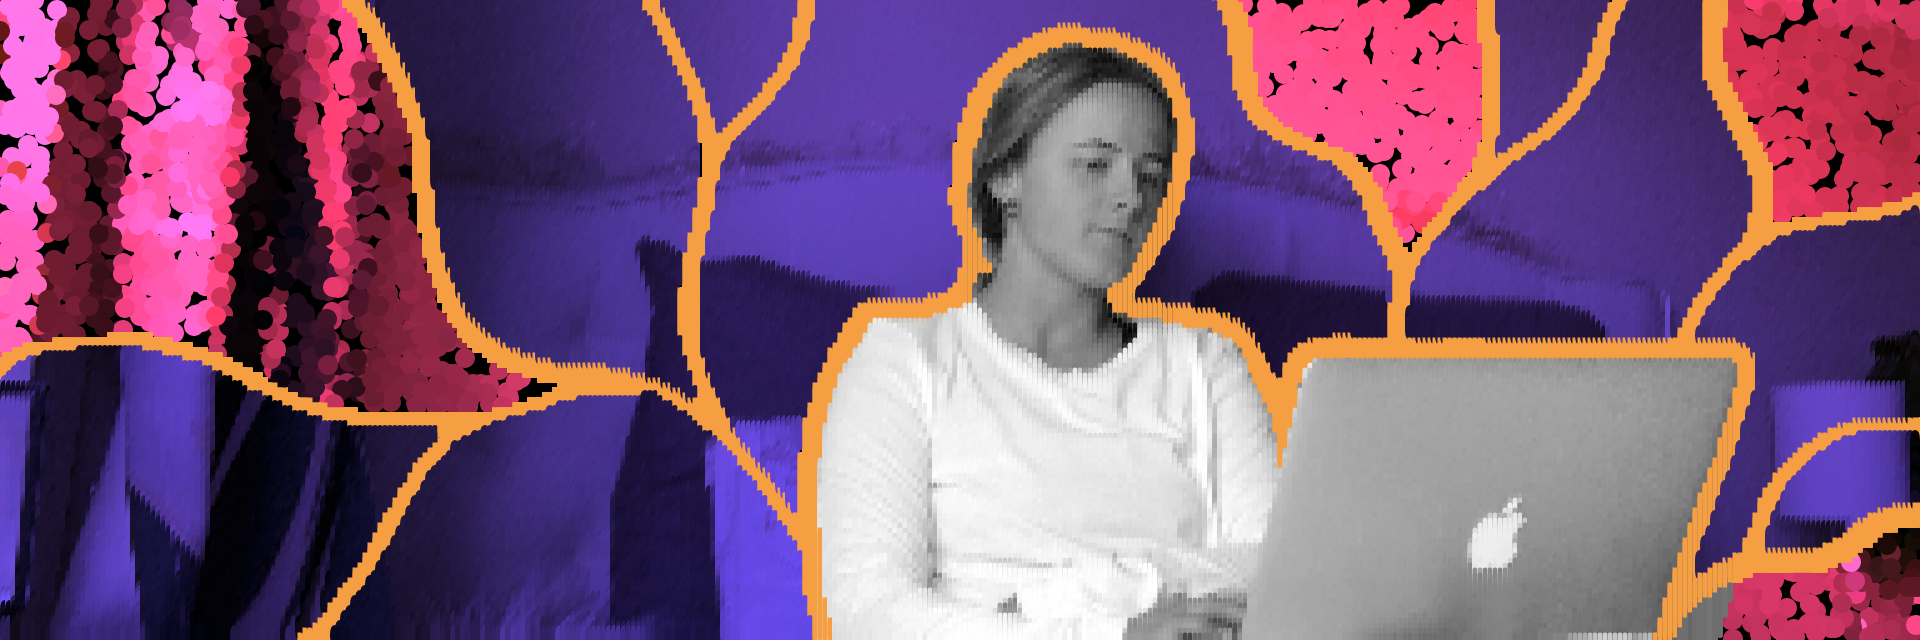
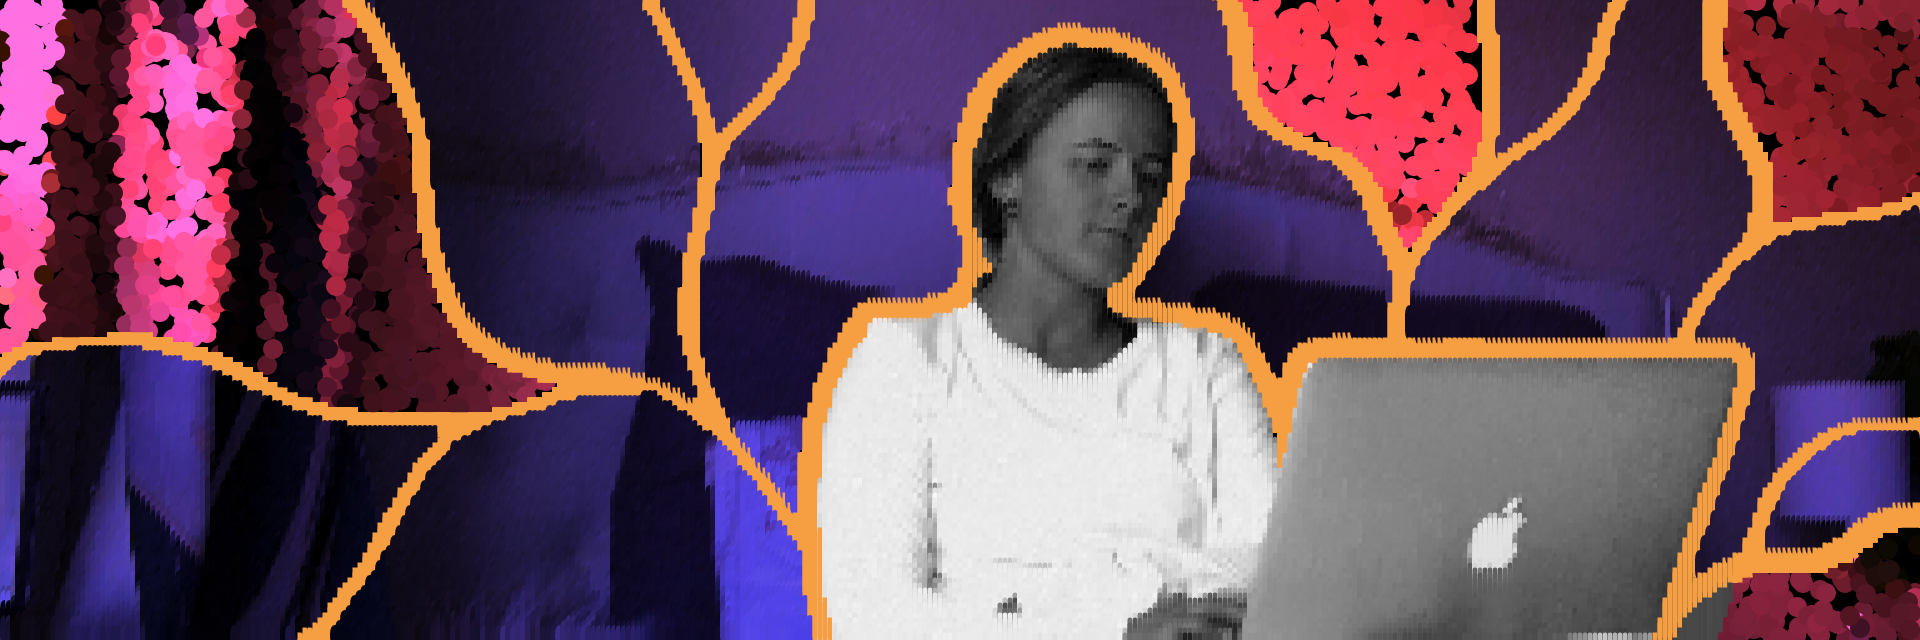
updated output 3

diff --git a/sketch.js b/sketch.js
@@ -60,7 +60,7 @@ function draw() {
       noStroke();
       fill(pixMod);
 
-      if (mask[0] > 220) {   //white mask (model)
+      if (mask[0] == 255) {   //white mask (model)
         stroke(pixMod);
         line(x2, y2, x2, y2 + 200);
 
@@ -90,7 +90,7 @@ function draw() {
     console.log("Done!")
     noLoop();
     // uncomment this to save the result
-    // saveArtworkImage(outputFile);
+    saveArtworkImage(outputFile);
   }
 }
 
